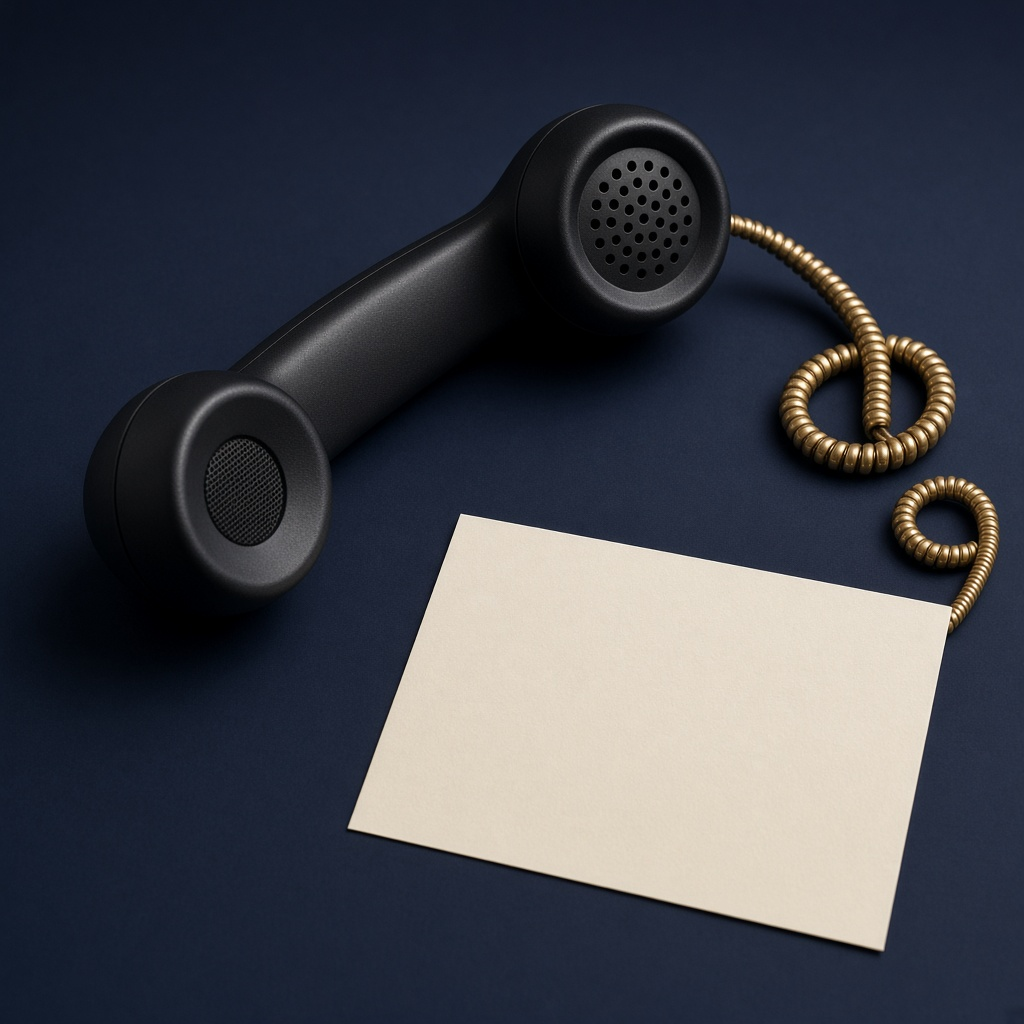
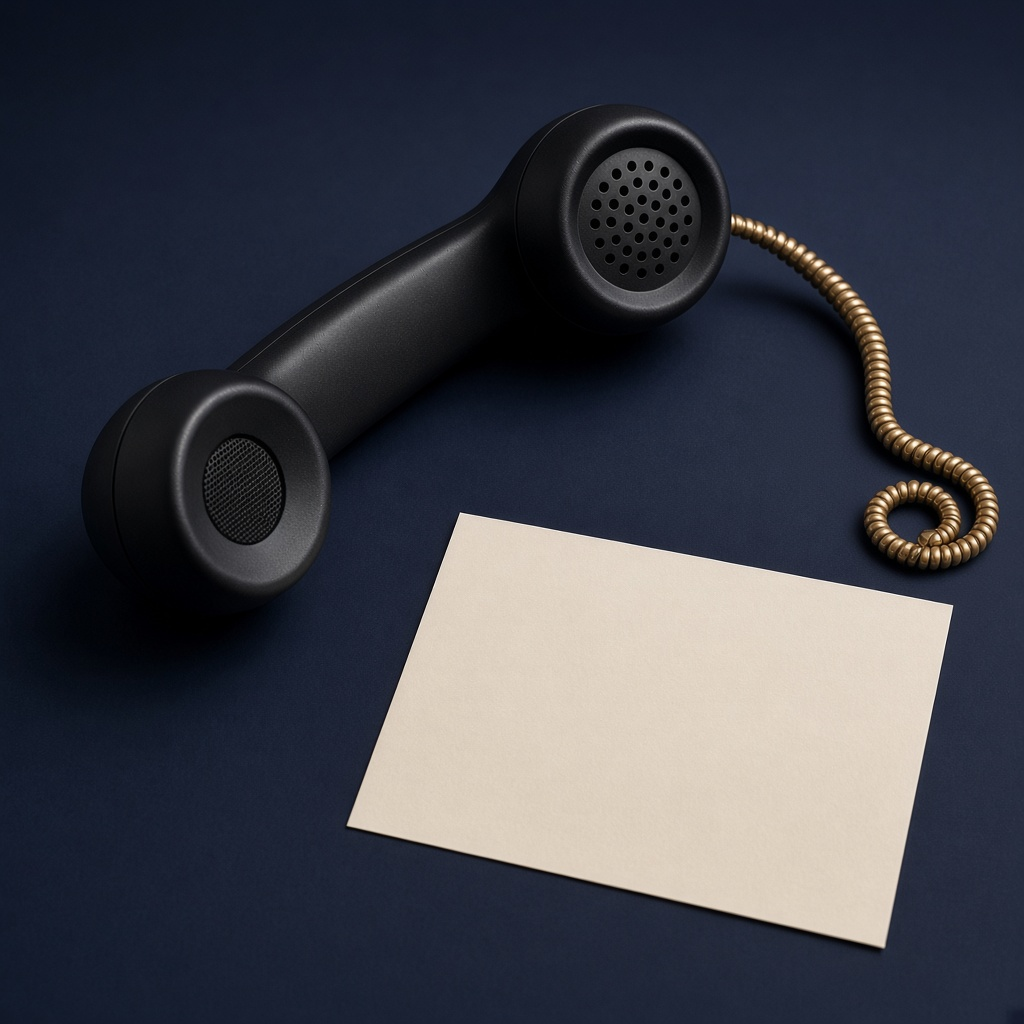
Rewrite the homepage presentation in a warmer voice and fix the phone cord.

diff --git a/server/pages.ts b/server/pages.ts
@@ -395,7 +395,7 @@ function productPresent(base: string) {
     ["present-phone.jpg", "گوشی تلفن روی میز تیره، کنار یک برگهٔ خام", "تلفن", "تماسی که بدون قدم بعدی قطع میشود."],
     ["present-script.jpg", "برگهٔ خطدار خام با گیره و قلم طلایی", "برگه", "جملهای که باید همان لحظه گفته شود."],
     ["present-table.jpg", "میز خالی مذاکره با پوشهٔ خام و قلم طلایی", "میز", "جلسهای که به تصمیم نمیرسد."],
-    ["present-funnel.jpg", "قیف برنجی با سه کارت خام", "قیف", "توجهی که به گفتگوی خرید نمیرسد."],
+    ["present-funnel.jpg", "قیف برنجی با سه کارت خام", "قیف", "توجهی که به گفتگوی جدی نمیرسد."],
   ] as const;
   const tiles = objects.map(([file, alt, title, line]) => `<figure class="bg-[#070B18] p-3 sm:p-4">
       <img src="${base}/present/${file}" alt="${esc(alt)}" width="800" height="800" class="aspect-square w-full rounded-2xl object-cover" />
@@ -405,17 +405,24 @@ function productPresent(base: string) {
   return `<section ${revealAttrs(40)} aria-labelledby="present-title" class="mt-8 overflow-hidden rounded-[2rem] border border-gold/30 bg-[#070B18]">
     <div class="grid lg:grid-cols-2">
       <div class="p-6 sm:p-8">
-        <p class="text-xs tracking-[0.18em] text-gold">وقتی گفتگو شروع شده</p>
-        <h2 id="present-title" class="mt-3 text-2xl font-semibold leading-[1.5] text-cream sm:text-3xl">فروش شروع شده؛ مسیرش هنوز یاد گرفته نشده.</h2>
-        <p class="mt-4 text-sm leading-8 text-cream/80">مشتری دیگر غریبهٔ کامل نیست. پای تلفن است، روبهروست، یا توی پیام. یک جا میگوید قیمت بالاست و جملهٔ بعدی را نداری. یک جا هم خودت نمیدانی این گفتگو باید به قرار یا خرید برسد. فروش همان وسط میایستد.</p>
+        <p class="text-xs tracking-[0.18em] text-gold">یک موقعیت آشنا</p>
+        <h2 id="present-title" class="mt-3 text-2xl font-semibold leading-[1.5] text-cream sm:text-3xl">مشتری آمده؛ مسیر را هنوز دستت نیست.</h2>
+        <p class="mt-4 text-sm leading-8 text-cream/80">بعضیها تازه میخواهند فروش را یاد بگیرند و نمیدانند گفتگو از کجا باید جلو برود. بعضیها هم هر روز با مشتری حرف میزنند، ولی همان لحظه که بحث جدی میشود مکث میکنند. یکی میشنود «قیمت بالاست» و جملهٔ بعدی نمیآید. یکی تماس را تمام میکند و قرار بعدی ندارد. شکل کارشان فرق دارد؛ گیرشان یکی است.</p>
+        <p class="mt-3 text-sm leading-8 text-cream/75">تلفن، تماسی است که گرم شروع میشود و سرد قطع میشود. برگه، جملهای است که باید همان لحظه آماده باشد و نیست. میز، جلسهای است که توضیح زیاد دارد و تصمیم ندارد. قیف، توجهی است که دیده میشود ولی به یک گفتگوی جدی نمیرسد.</p>
       </div>
       <div class="grid grid-cols-2 border-t border-gold/20 lg:border-t-0 lg:border-s">${tiles}</div>
     </div>
-    <div class="flex flex-col gap-4 border-t border-gold/25 p-6 sm:flex-row sm:items-end sm:justify-between sm:p-8">
-      <p class="max-w-2xl text-sm leading-7 text-cream/75">چهار مسیر همین فاصله را درس میدهد: آنلاین، حضوری، تلفنی و مذاکره. هر درس ویدیو است و با کوییز تمام میشود. اگر پشت خط بمانی و همان لحظه جواب را بخواهی، دستیار از دقیقهای استفاده میکند که جدا از دوره میخری.</p>
-      <div class="flex w-full shrink-0 flex-col gap-2 sm:w-auto">
-        <a href="#courses" class="inline-flex h-11 items-center justify-center rounded-2xl bg-gold px-5 text-sm font-semibold text-navy">دیدن مسیرها</a>
-        <a href="${base}/services/#ai-minutes" class="inline-flex h-11 items-center justify-center rounded-2xl px-5 text-sm font-semibold text-cream ring-1 ring-gold/40">خرید دقیقهٔ دستیار</a>
+    <div class="flex flex-col gap-5 border-t border-gold/25 p-6 sm:p-8">
+      <div class="max-w-3xl space-y-3 text-sm leading-8 text-cream/80">
+        <p>از همینجا سه راه باز است، و هیچکدام جای آن یکی را نمیگیرد.</p>
+        <p>آموزشها چهار مسیرند: آنلاین، حضوری، تلفنی و مذاکره. هر درس ویدیو است و با یک کوییز کوچک تمام میشود. درس اول هر مسیر باز است تا خودت ببینی این راه به کارت میآید یا نه.</p>
+        <p>خدمات برای وقتی است که کار از یک نفر بزرگتر شده. بازنویسی اسکریپت تیم، کارگاه حضوری، چیدن قیف، یا منتورینگ مدیر فروش. هر کدام را همانجا، با شرایط خودِ تیم، میشود دقیق دید.</p>
+        <p>دستیار برای لحظهٔ پشت خط است. اعتراض که آمد، جمله را همانجا میگیری و مکث کوتاه میشود. دقیقهٔ دستیار جدا از دورههاست و جزو ثبتنام آموزش حساب نمیشود.</p>
+      </div>
+      <div class="flex flex-col gap-2 sm:flex-row sm:flex-wrap">
+        <a href="#courses" class="inline-flex h-11 items-center justify-center rounded-2xl bg-gold px-5 text-sm font-semibold text-navy">شروع آموزشها</a>
+        <a href="${base}/services/" class="inline-flex h-11 items-center justify-center rounded-2xl px-5 text-sm font-semibold text-cream ring-1 ring-gold/40">دیدن خدمات</a>
+        <a href="${base}/demo/" class="inline-flex h-11 items-center justify-center rounded-2xl px-5 text-sm font-semibold text-cream ring-1 ring-gold/40">رفتن سراغ دستیار</a>
       </div>
     </div>
   </section>`;
@@ -467,7 +474,7 @@ export function homePage(base: string) {
           <button type="button" id="buy-bundle" class="h-11 w-full shrink-0 rounded-2xl bg-cream px-5 text-sm font-semibold text-navy disabled:cursor-not-allowed disabled:opacity-60 sm:w-auto">افزودن به سبد</button>
         </div>
       </article>
-      <p class="mt-4 text-sm text-cream/50"><a class="text-cream/70" href="${base}/demo/">دستیار پشت خط از دقیقهٔ خریدهشده استفاده میکند و جزو ثبتنام دوره نیست.</a></p>
+      <p class="mt-4 text-sm text-cream/50"><a class="text-cream/70" href="${base}/demo/">دستیار پشت خط جدا از آموزش است و از همان صفحه میشود باهاش کار کرد.</a></p>
     </section>
   `);
 }
